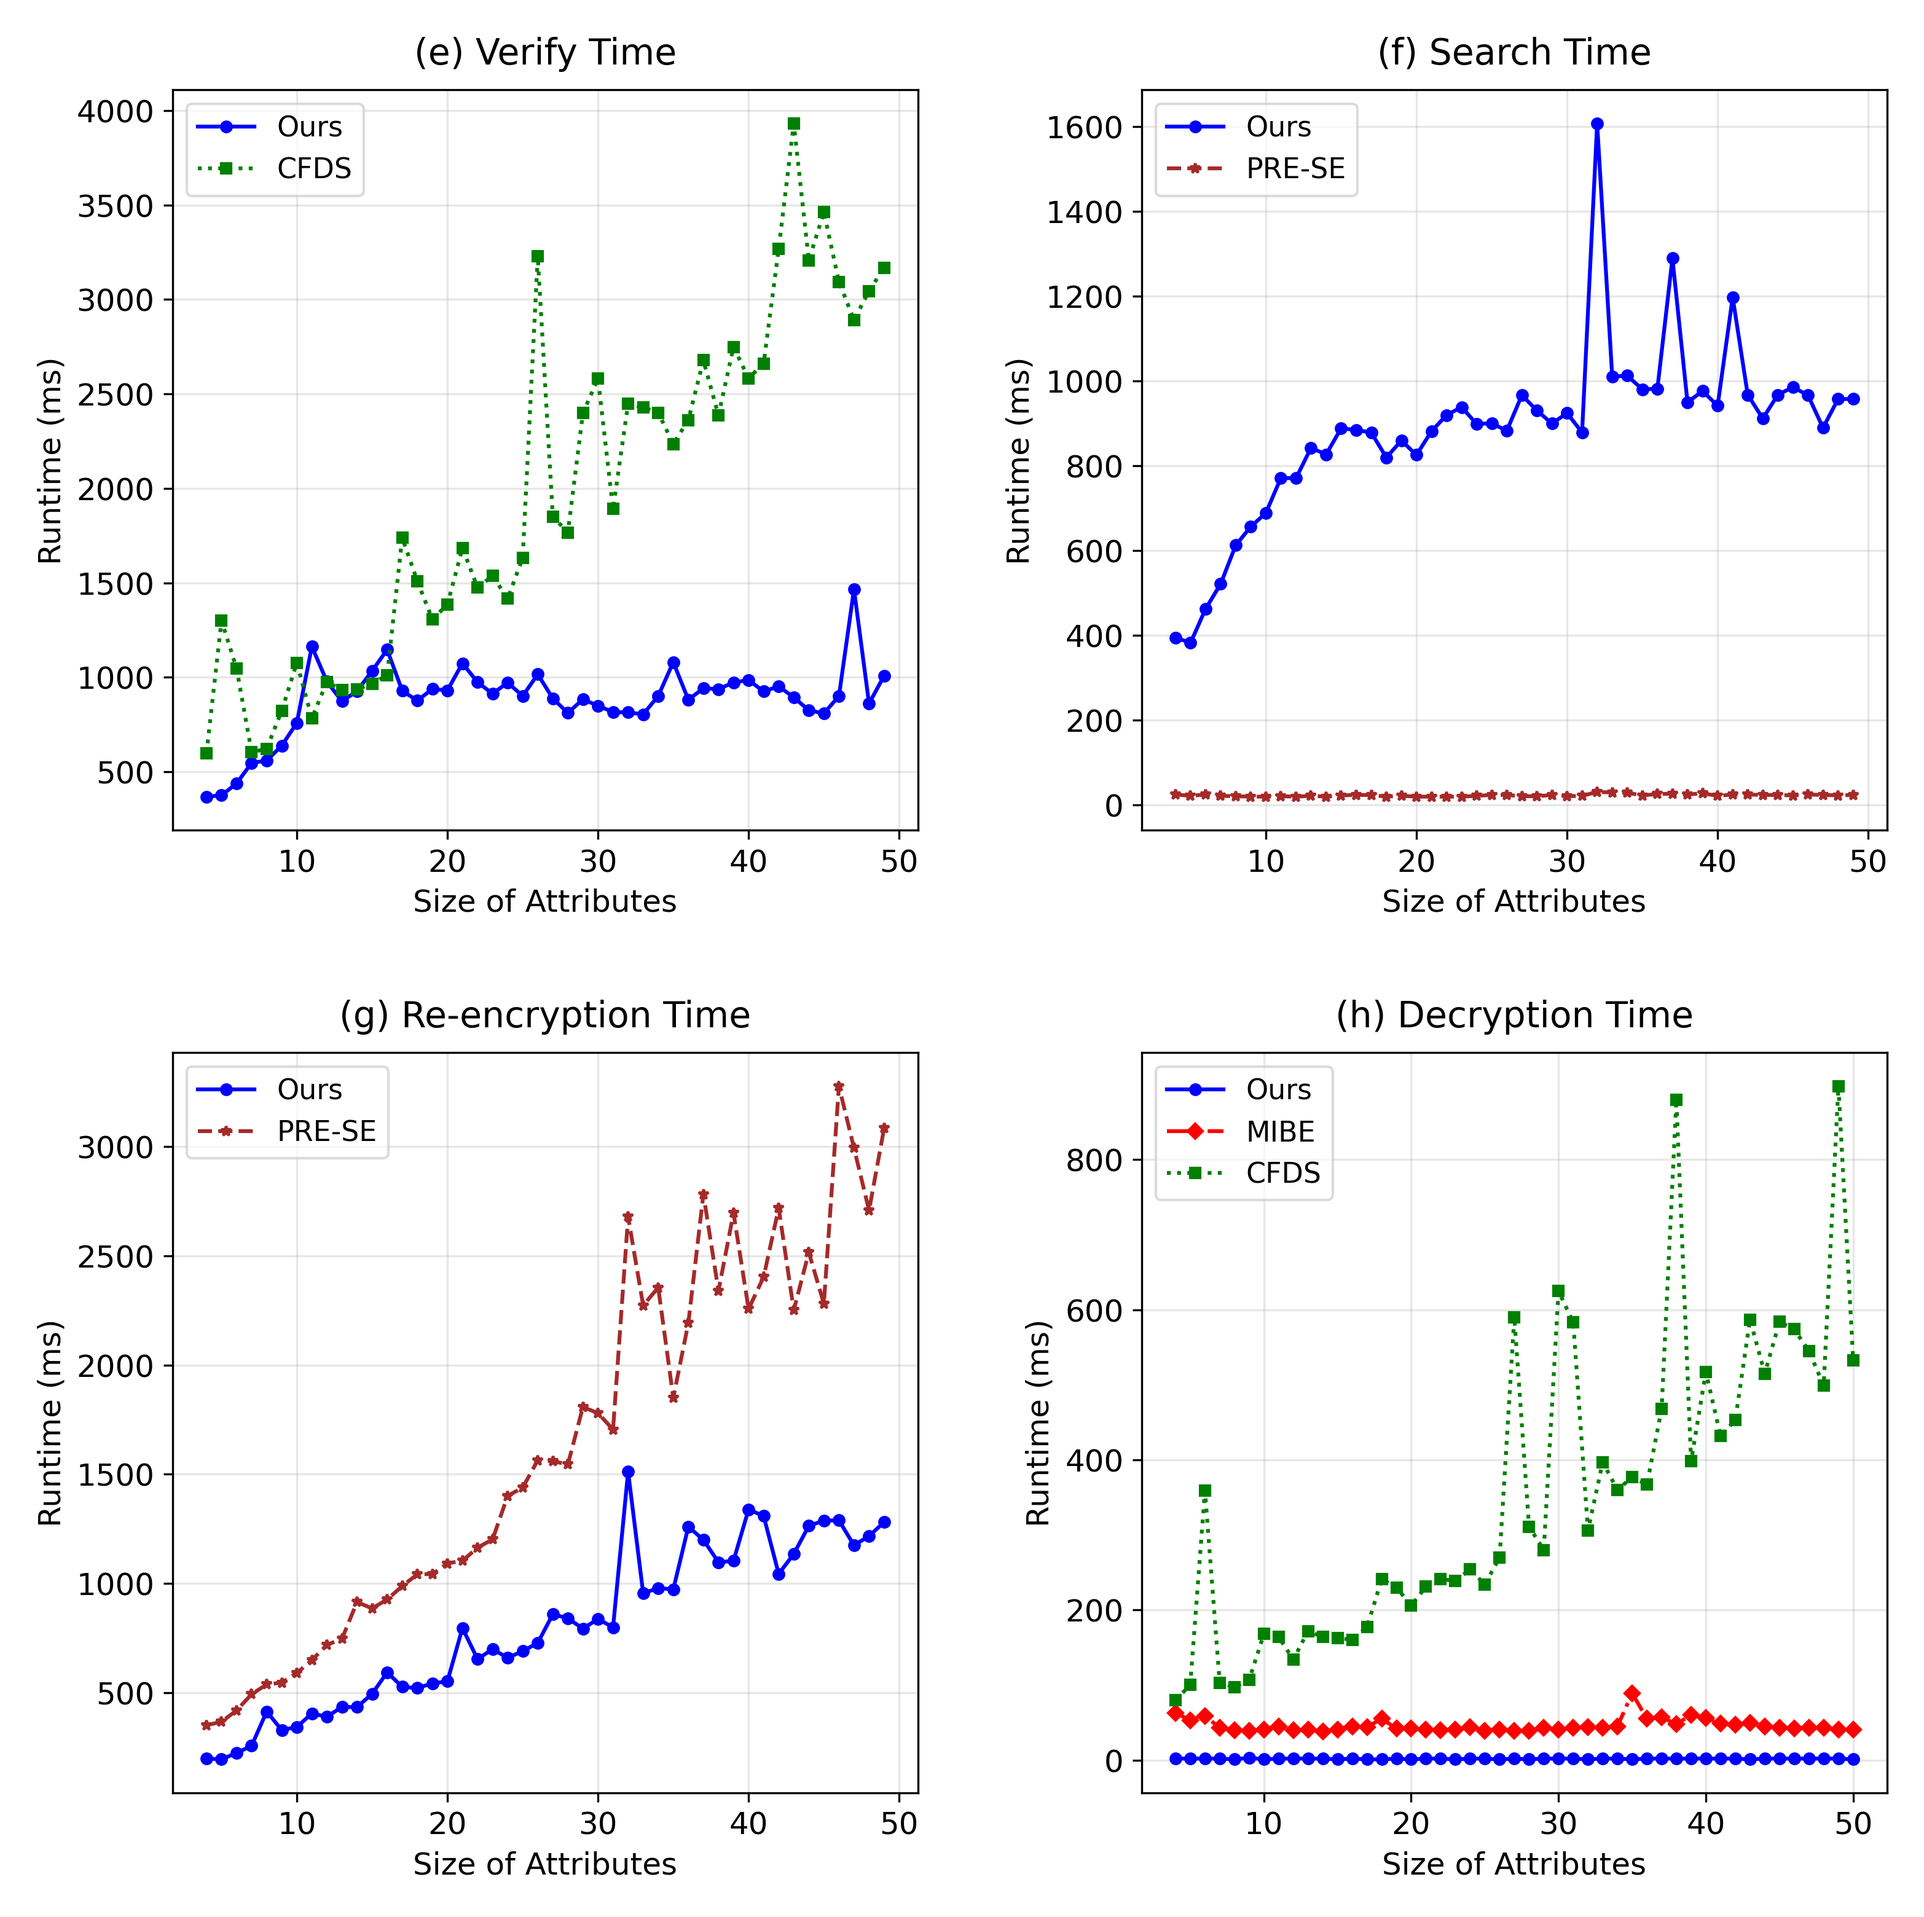
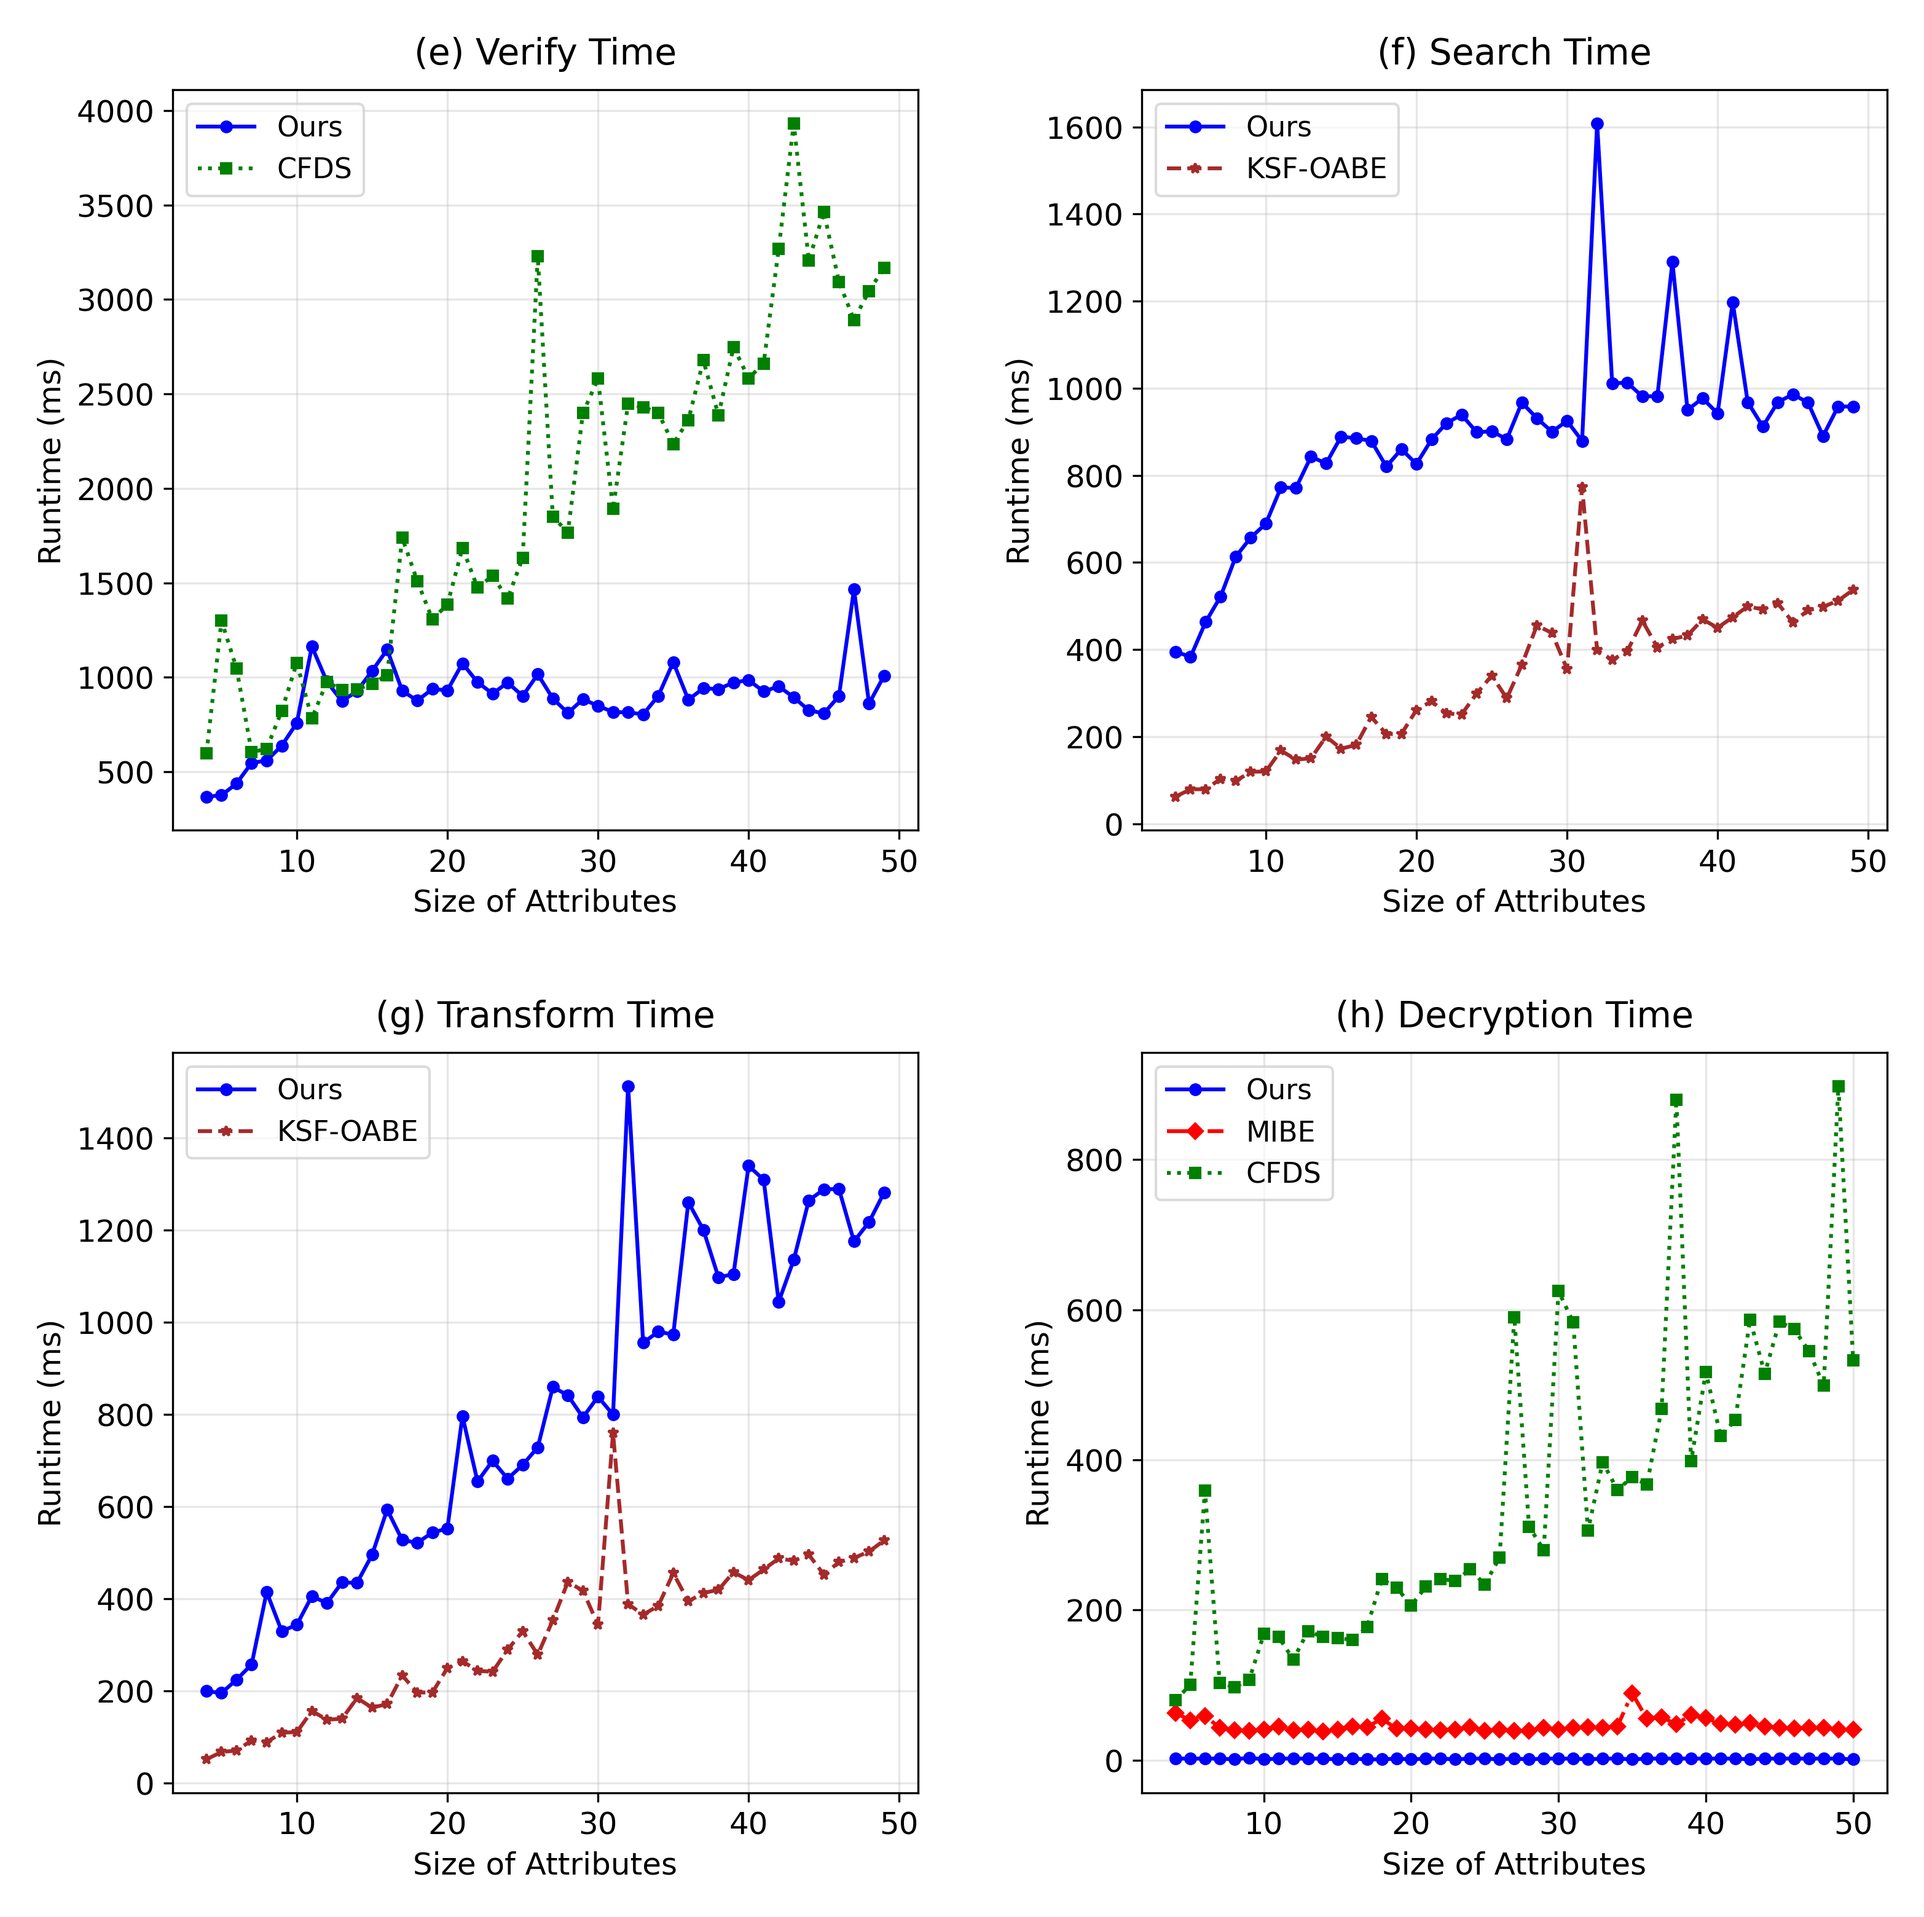
时间开销添加 KSF-OABE，删除 pre-se 的比较

diff --git a/data/combined-data/combine.py b/data/combined-data/combine.py
@@ -23,7 +23,7 @@ files_group1 = [
 files_group2 = [
     ('5verify-data.csv', 'Verify Time'),
     ('6search-data.csv', 'Search Time'),
-    ('7reenc-data.csv', 'Re-encryption Time'),
+    ('7transform-data.csv', 'Transform Time'),
     ('8dec-data.csv', 'Decryption Time')
 ]
 
@@ -34,7 +34,7 @@ styles = {
     'CFDS': (':', 's', 'green'),
     'MIBE': ('-.', 'D', 'red'),
     'CP-ABE': ('--', 'v', 'purple'),
-    'PRE-SE': ('--', '*', 'brown')  # 添加缺失的方案
+    'KSF-OABE': ('--', '*', 'brown')  # 添加缺失的方案
 }
 
 # 处理第一组图
